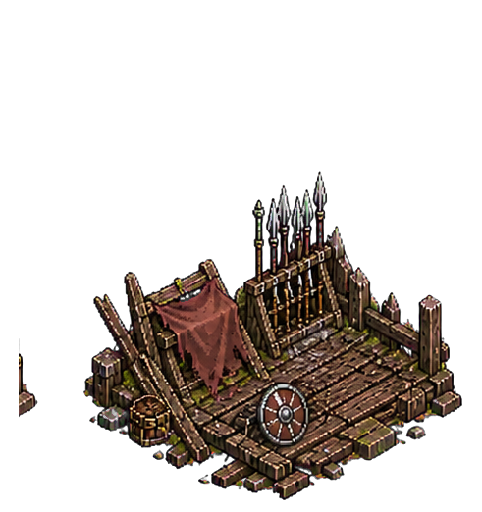
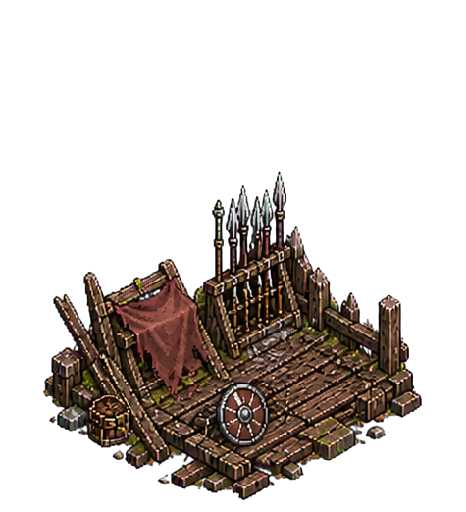
Fine tune camp plot alignment

Changed region(s): [[0.03, 0.3438, 0.9614, 1.0]]

diff --git a/tools/build_camp_layers.py b/tools/build_camp_layers.py
@@ -53,6 +53,15 @@ def split_progression(name: str, columns: int, rows: int, count: int) -> None:
             (column + 1) * cell_width,
             (row + 1) * cell_height,
         ))
+        if name == "armory" and index < 3:
+            # The first three atlas cells contain a detached sliver of the
+            # following tier at their right edge. Once mirrored for the west
+            # plot that fragment appeared on the village boundary and shifted
+            # the real workshop away from its foundation.
+            artifact_cutoffs = (420, 400, 430)
+            clean_alpha = cell.getchannel("A")
+            clean_alpha.paste(0, (artifact_cutoffs[index], 0, cell.width, cell.height))
+            cell.putalpha(clean_alpha)
         sprite = cell.crop(alpha_bbox(cell))
         # Both workshops live on the west side of camp. Their open working
         # faces should look inward toward the central road, not at the fence.
